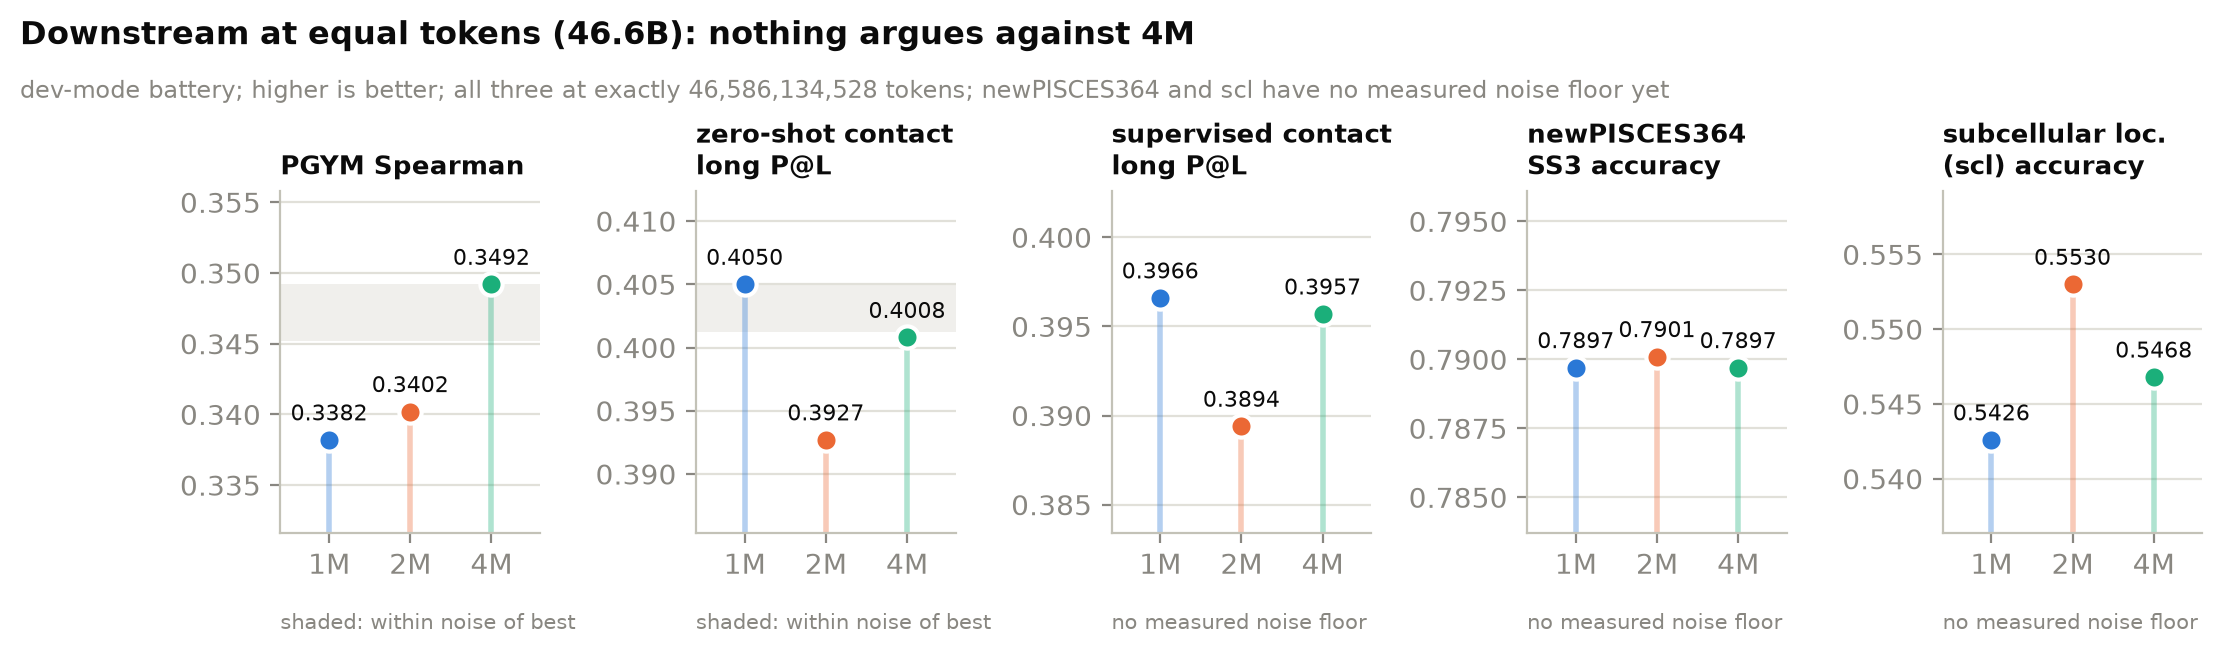
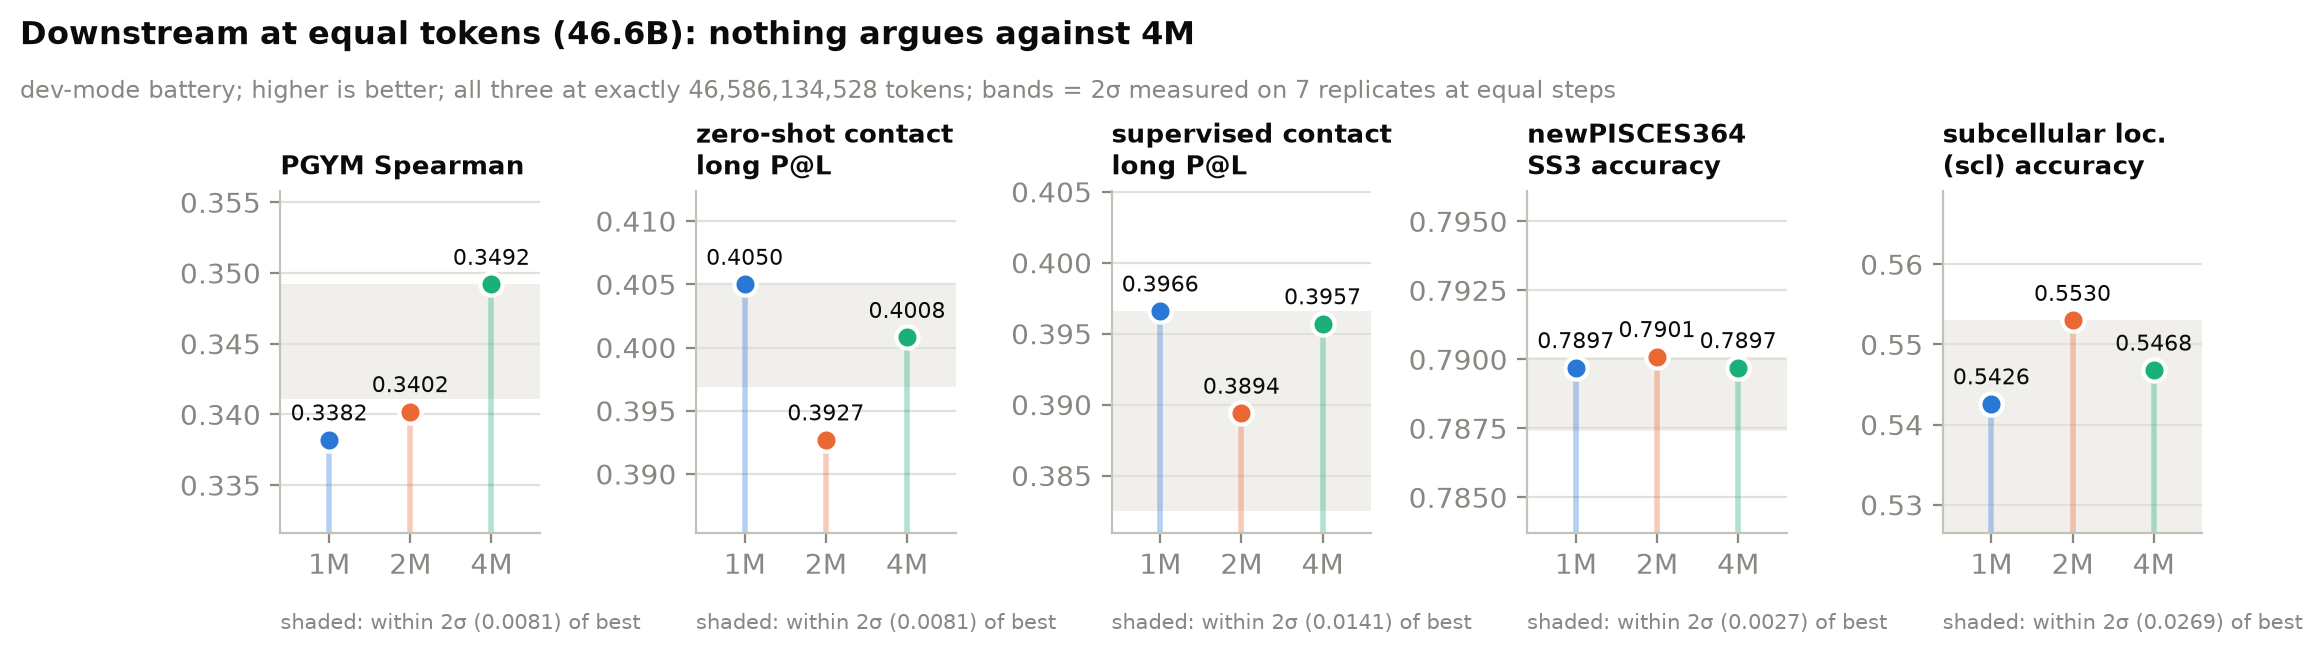
results(batch): downstream figure and text use the measured noise floors

diff --git a/results.md b/results.md
@@ -124,12 +124,11 @@ resumed to the same token count (steps 44428 / 22214):
 | 2M | 0.3402 | 0.3927 | 0.3894 | **0.7901** | **0.5530** |
 | 4M | **0.3492** | 0.4008 | 0.3957 | 0.7897 | 0.5468 |
 
-PGYM favours 4M by 0.0110 over 1M (2.8x its 0.0040 floor); zero-shot contact
-favours 1M by 0.0042 (1.1x its 0.0038 floor, marginal); supervised contact is
+PGYM favours 4M by 0.0110 over 1M (1.4x its measured 0.0081 floor); zero-shot contact
+favours 1M by 0.0042 (0.5x, noise); supervised contact is
 a 1M/4M tie with 2M lowest; newPISCES364 is flat. scl scatters with no batch
 trend. With loss favouring 4M by 5.8x its floor, nothing downstream argues
-against 4M. (Floors for supervised contact, newPISCES364 and scl are being
-measured on the replicates, eval job 2018520.)
+against 4M. Under the equal-step floors measured since (PGYM 0.0081, zero-shot 0.0081, supervised 0.0141, newPISCES364 0.0027, scl 0.0269; figure bands) only PGYM's 4M-over-2M gap clears its floor; 1M and 4M are inseparable downstream, so loss decides.
 
 ![Downstream at 46.6B](figures/batch/fig_batch_downstream.png)
 
